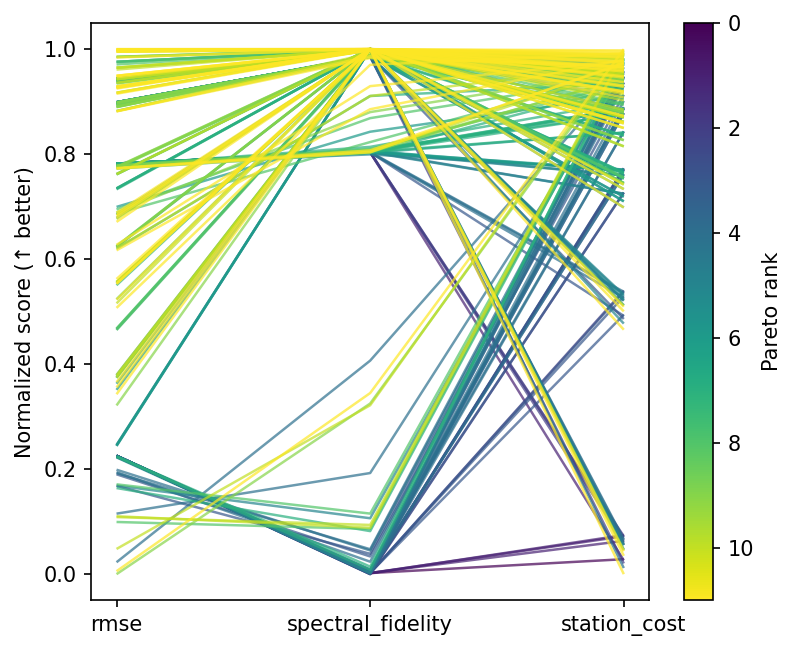
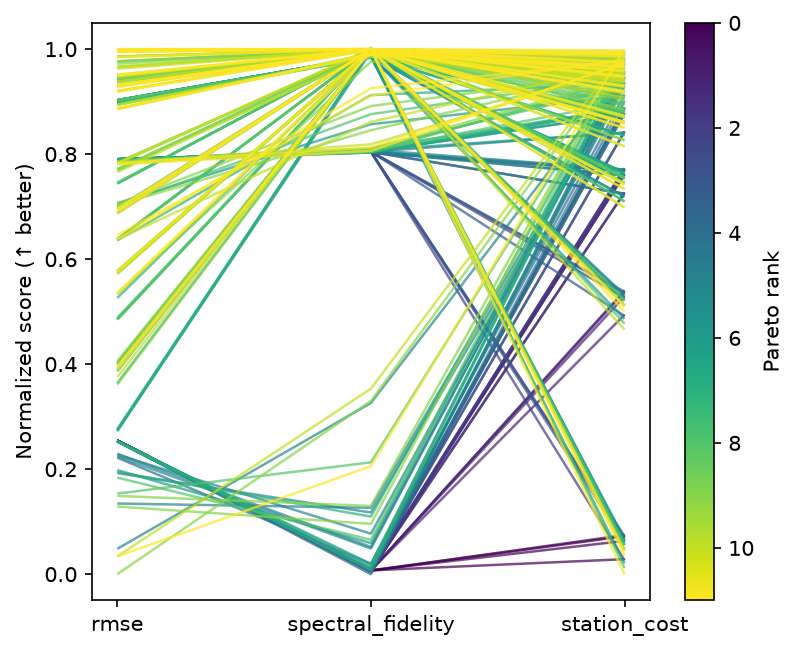
docs: correct tutorial interpretation and refresh figures

diff --git a/src/trade_study/stacking.py b/src/trade_study/stacking.py
@@ -45,6 +45,9 @@ def stack_scores(
 
     For non-Bayesian models where log-likelihoods aren't available.
     Finds weights w on the simplex that optimize the weighted composite score.
+    The objective is linear in the supplied model scores; an optimum can select
+    one best-mean model. It does not optimize the score of a mixture distribution
+    or the loss of an averaged prediction.
 
     Args:
         score_matrix: Array of shape (n_models, n_test_points) where each
@@ -53,6 +56,11 @@ def stack_scores(
 
     Returns:
         Array of weights, shape (n_models,), summing to 1.
+
+    Examples:
+        >>> weights = stack_scores(np.array([[1.0, 1.0], [3.0, 3.0]]))
+        >>> int(np.argmax(weights)), bool(np.isclose(weights.sum(), 1.0))
+        (0, True)
     """
     from scipy.optimize import minimize  # type: ignore[import-untyped]
 

diff --git a/examples/monitoring_study.py b/examples/monitoring_study.py
@@ -439,7 +439,7 @@ def main() -> None:
     _plot_best_vs_cheapest(plt, results.configs[best], results.configs[cheapest])
 
     # ── Trade-study plots ──────────────────────────────────────────
-    # Pareto front scatter (3 objectives → pairwise matrix)
+    # Pareto front scatter in three objective dimensions
     fig_front, _ = plot_front(results, directions)
     fig_front.savefig(
         f"{ASSET_DIR}/monitoring_front.png",

diff --git a/examples/bayesian_study.py b/examples/bayesian_study.py
@@ -336,7 +336,7 @@ def _run_stacking(results: Any, front_idx: Any, world: Any) -> None:
 
     score_mat = np.array(score_matrix_rows)  # (n_front, n_test)
     stacking_weights = stack_scores(score_mat, maximize=False)
-    print("\nStacking weights (MSE-optimal):")
+    print("\nWeights from mean per-model squared errors:")
     for idx, w in zip(front_idx, stacking_weights, strict=True):
         if w > 0.01:
             cfg = results.configs[idx]

diff --git a/docs/guide/bayesian.md b/docs/guide/bayesian.md
@@ -7,7 +7,8 @@ rules, calibration assessment, and score-based model averaging.
 
 The underlying model is a conjugate Bayesian linear regression — no
 MCMC sampler or external probabilistic programming library needed,
-only numpy.
+only NumPy for the model. The study uses the `examples` extra for scoring,
+design, optimization and plots.
 
 !!! tip "Run it yourself"
 
@@ -37,8 +38,8 @@ configuration controls three knobs:
 
 Choosing `noise_scale` too small produces overconfident posteriors;
 too large gives conservative intervals.  A tight prior (`prior_var`
-small) biases the coefficients toward zero.  More data always helps,
-but at a computational cost.
+small) biases the coefficients toward zero.  More observations can reduce parameter uncertainty, but predictive quality also
+depends on the prior and noise assumptions.
 
 ## Ground-truth model
 
@@ -74,7 +75,7 @@ through the test design matrix and adding observation noise.
 
 The **simulator** generates training data from the true model, fits
 the conjugate posterior, and returns posterior predictive samples at
-held-out test locations.  The **scorer** evaluates three complementary
+held-out test locations.  The **scorer** evaluates five complementary
 metrics:
 
 - **CRPS** (Continuous Ranked Probability Score) — a proper scoring
@@ -86,15 +87,20 @@ metrics:
 - **RMSE** — root mean squared error of the posterior mean.
 - **MAE** — mean absolute error of the posterior mean.
 
+Marginal CRPS/coverage use `(test_location, member)` samples. Joint energy
+uses `(member, variable)`, so the scorer transposes the same array.
+
 ```python
 --8<-- "examples/bayesian_study.py:world"
 ```
 
 ## Observables and factors
 
-Coverage is given lower weight (0.5) because a model can trivially
-achieve 100 % coverage by being very wide; CRPS already penalises
-that.
+The example scales energy and coverage by 0.5 and MAE by 0.3. Positive
+scaling preserves Pareto membership; it does not express a preference during
+non-dominated sorting. A wide interval can achieve high empirical coverage while
+CRPS penalizes its spread. Use explicit weighted-sum or preference policies to
+choose among the five-objective alternatives.
 
 ```python
 --8<-- "examples/bayesian_study.py:observables"
@@ -153,10 +159,11 @@ a `ResultsTable`:
 
 ![Pareto front](../assets/bayesian_front.png)
 
-With three objectives the front is a surface; `plot_front` shows all
-pairwise projections.  Models with low CRPS generally have good
-coverage and low RMSE, but there are trade-offs when noise is
-mis-specified.
+There are five objectives. `plot_front` displays pairwise projections of the
+first three (CRPS, energy and coverage), while marking membership of the full
+five-objective front. Projection alone does not determine that membership.
+Models with low CRPS generally have good coverage and low RMSE, with trade-offs
+when noise is misspecified.
 
 ### Parallel coordinates
 
@@ -222,9 +229,13 @@ The `Study` class orchestrates multi-phase workflows.
 
 ## Score-based stacking
 
-`stack_scores` finds simplex-constrained weights that minimise the
-composite MSE across test points.  The stacked ensemble often beats
-every individual model because it smooths over prior mis-specification:
+`stack_scores` minimizes a weighted average of the supplied per-model scores.
+Here those inputs are squared errors. This is a linear objective in the weights,
+so an optimum usually concentrates on a model with the best mean input score.
+It does not optimize the squared error of the combined prediction or promise
+improvement over every model. The example computes that prediction and its RMSE
+separately. These weights use the same test values shown in the comparison; an
+independent evaluation set is needed to assess performance after selection:
 
 ```python
 --8<-- "examples/bayesian_study.py:stacking"
@@ -233,7 +244,9 @@ every individual model because it smooths over prior mis-specification:
 ## Calibration assessment
 
 `coverage_curve` evaluates empirical coverage at many nominal levels.
-A well-calibrated model tracks the diagonal:
+A calibrated predictive distribution should track the diagonal across suitable
+repeated data. This illustration uses one test set after model selection; it is
+an empirical coverage plot, not a powered SBC or calibration certification:
 
 ```python
 --8<-- "examples/bayesian_study.py:calibration"

diff --git a/docs/guide/capabilities.md b/docs/guide/capabilities.md
@@ -19,7 +19,7 @@ scoring, optimization and plotting; statistical estimators belong to the caller.
 | Chain study phases | `Study`, `Phase`, phase filters | Requirements follow each chosen filter/runner; preserve reproducibility between phases. |
 | Optimize or allocate fidelity | `run_adaptive`, `AdaptiveSession`, `run_successive_halving`, `run_hyperband` | `adaptive` for Optuna; persistent sessions retain their declared objective/constraint contract. |
 | Fit validated response models | `fit_surrogate`, `fit_regime_surrogate`, `sensitivity_from_table` | `surrogate` plus optional `design`; inspect grouped validation and support diagnostics. |
-| Score and combine predictions | `score`, `coverage_curve`, `stack_scores`, `stack_proportional`, `stack_bayesian`, `ensemble_predict` | `scoring`/`stacking` as appropriate; direct weighted prediction is core. |
+| Score and combine predictions | `score`, `coverage_curve`, `stack_scores`, `stack_proportional`, `stack_bayesian`, `ensemble_predict` | `scoring`/`stacking` as appropriate; direct weighted prediction is core. `stack_scores` optimizes supplied mean scores, not mixture predictive loss. |
 | Cache, resume and publish results | `EvaluationCache`, grid checkpoints, `save_result_bundle`, `load_result_bundle`, `publish_result_bundle` | Core; [bundles](result-bundles.md) require independently supplied expected provenance for guarded reuse. |
 | Export or plot | `ResultsTable.to_dataframe`, plotting helpers | `dataframe` or `viz`. |
 

diff --git a/docs/guide/cstr.md b/docs/guide/cstr.md
@@ -146,13 +146,13 @@ front covers the objective space (higher is better):
 --8<-- "examples/cstr_study.py:results"
 ```
 
-### Pareto front scatter matrix
+### Pareto front scatter
 
 ![Pareto front](../assets/cstr_front.png)
 
-With three objectives the front is a surface; `plot_front` shows all
-pairwise projections.  The conversion–selectivity panel is the
-classic Pareto trade-off curve.
+With three objectives, `plot_front` draws a 3-D scatter of the evaluated
+designs, marking the nondominated members. View conversion, selectivity and
+energy cost together when comparing alternatives.
 
 ### Parallel coordinates
 
@@ -173,8 +173,9 @@ conversion–selectivity trade-off.
 
 ## What to try next
 
-- Call `stack_bayesian()` on the Pareto front to compute model-averaging
-  weights.
+- Use `preference_sweep()` to compare reactor designs across explicit
+  objective preferences. Bayesian stacking requires predictive models with
+  log-likelihood information, which these reactor alternatives do not supply.
 - Save results with `save_results()` for later analysis.
 - Combine `feasibility_filter` with `top_k_pareto_filter` across
   successive phases for constrained multi-objective optimisation.

diff --git a/docs/guide/monitoring.md b/docs/guide/monitoring.md
@@ -144,13 +144,13 @@ The best-RMSE design tracks every oscillation; the cheapest design
 misses the short-period modes entirely — exactly the trade-off the
 Pareto front quantifies.
 
-### Pareto front scatter matrix
+### Pareto front scatter
 
 ![Pareto front](../assets/monitoring_front.png)
 
-Each dot is one instrument configuration; highlighted points lie on
-the Pareto front.  The RMSE–cost and fidelity–cost panels show the
-clear budget trade-off.
+Each dot is one instrument configuration in a 3-D plot of RMSE, spectral
+fidelity and cost; highlighted points are nondominated within this grid.
+The three coordinates show the sampled budget trade-off.
 
 ### Parallel coordinates
 
@@ -166,7 +166,7 @@ configurations showing the sharpest cost-performance knee.
 
 Scores split by Pareto membership.  Most low-RMSE designs are on the
 front, while dominated designs cluster at higher error — confirming
-the front captures the best achievable accuracy at each cost level.
+the front identifies nondominated alternatives among the evaluated designs.
 
 ## What to try next
 

diff --git a/CHANGELOG.md b/CHANGELOG.md
@@ -9,7 +9,9 @@ All notable changes to this project will be documented in this file.
 - Audit current capabilities against public APIs; correct scope and limitations,
   add executable workflow examples and public API doctests, and document their
   CI and optional-dependency checks. Fix the Bayesian example energy-score axes
-  and execute both monitoring and Bayesian guides in CI. No core runtime API or
+  and execute both monitoring and Bayesian guides in CI. Refresh affected tutorial
+  figures and clarify positive Pareto scaling, score-weight optimization and
+  empirical coverage interpretation. No core runtime API or
   dependency changes.
 
 
